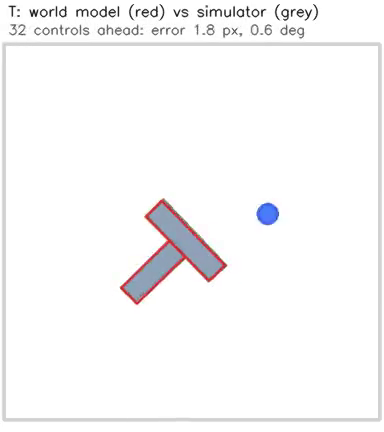
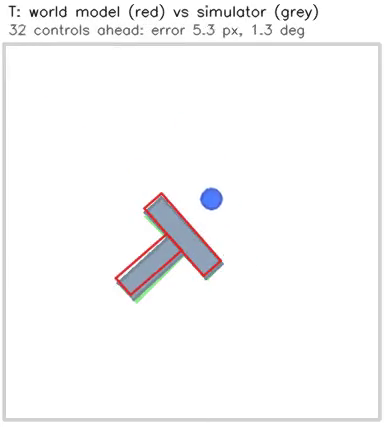
docs(presentation): show a T push that starts clear of the goal
Why:
The lead asked for the backup T clip to start with no overlap with the
goal, like the D clip.

Note: some slides' step-by-step animations are still gone in the Beamer
deck; they will be restored later, content first.

Changes:
- Backup clip: T from teacher seed 400500, the first push (control 2),
  starting at 0% coverage; the letter moves 101 px and turns 91 deg.
  Predicted within 0.5 px after 8 and 5.3 px after 32 controls; caption
  "Error at most 5.3 px". It is the most accurate zero-overlap T window
  in 48 recorded T episodes (D's first window: 1.1 px, 2.0 px at worst).

Validation:
- Deck compiles; slide checked. PowerPoint checks pass (every word
  matches its Beamer page).

diff --git a/presentation/slides/main.tex b/presentation/slides/main.tex
@@ -728,7 +728,7 @@
     \centering
     \video{slide/wm_imagined_T.png}{world_model/imagined_vs_real_T.mp4}{50mm}\par
     \vspace{1.5mm}
-    \cpt{T, red outline = imagined 32 steps ahead without correction. Error at most 2.3 px.}
+    \cpt{T, red outline = imagined 32 steps ahead without correction. Error at most 5.3 px.}
   \end{columns}
 \end{frame}
 
